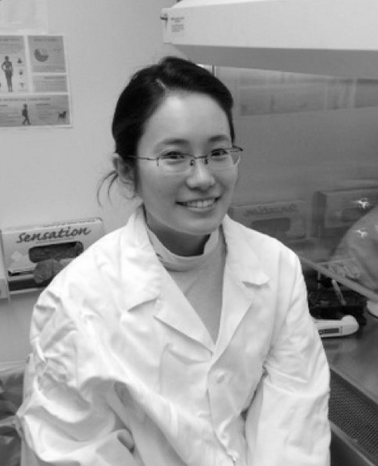
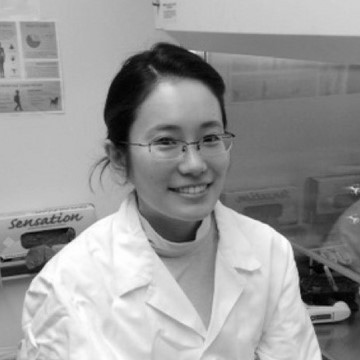
Smaller profile photo with circular crop, github linkedin links in about section

diff --git a/css/grayscale.min.css b/css/grayscale.min.css
@@ -2,4 +2,79 @@
  * Start Bootstrap - Grayscale v5.0.3 (https://startbootstrap.com/template-overviews/grayscale)
  * Copyright 2013-2018 Start Bootstrap
  * Licensed under MIT (https://github.com/BlackrockDigital/startbootstrap-grayscale/blob/master/LICENSE)
- */#mainNav{min-height:56px;background-color:#fff}#mainNav .navbar-toggler{font-size:80%;padding:.75rem;color:#64a19d;border:1px solid #64a19d}#mainNav .navbar-toggler:focus{outline:0}#mainNav .navbar-brand{color:#161616;font-weight:700;padding:.9rem 0}#mainNav .navbar-nav .nav-item:hover{color:fade(white,80%);outline:0;background-color:transparent}#mainNav .navbar-nav .nav-item:active,#mainNav .navbar-nav .nav-item:focus{outline:0;background-color:transparent}@media (min-width:992px){#mainNav{padding-top:0;padding-bottom:0;border-bottom:none;background-color:transparent;-webkit-transition:background-color .3s ease-in-out;transition:background-color .3s ease-in-out}#mainNav .navbar-brand{padding:.5rem 0;color:white}#mainNav .nav-link{-webkit-transition:none;transition:none;padding:2rem 1.5rem;color:white}#mainNav .nav-link:hover{color:rgba(255,255,255,.75)}#mainNav .nav-link:active{color:#fff}#mainNav.navbar-shrink{background-color:#fff}#mainNav.navbar-shrink .navbar-brand{color:#161616}#mainNav.navbar-shrink .nav-link{color:#161616;padding:1.5rem 1.5rem 1.25rem;border-bottom:.25rem solid transparent}#mainNav.navbar-shrink .nav-link:hover{color:#64a19d}#mainNav.navbar-shrink .nav-link:active{color:#467370}#mainNav.navbar-shrink .nav-link.active{color:#64a19d;outline:0;border-bottom:.25rem solid #64a19d}}.masthead{position:relative;width:100%;height:auto;min-height:35rem;padding:15rem 0;background:-webkit-gradient(linear,left top,left bottom,from(rgba(22,22,22,.1)),color-stop(75%,rgba(22,22,22,.5)),to(#161616)),url(../img/city.jpg);background:linear-gradient(to bottom,rgba(22,22,22,.1) 0,rgba(22,22,22,.5) 75%,#161616 100%),url(../img/city.jpg);background-position:center;background-repeat:no-repeat;background-attachment:scroll;background-size:cover}.masthead h1{font-family:'Varela Round';font-size:2.5rem;line-height:2.5rem;letter-spacing:.8rem;background:-webkit-linear-gradient(rgba(255,255,255,.9),rgba(255,255,255,0));-webkit-text-fill-color:transparent;-webkit-background-clip:text}.masthead h2{max-width:20rem;font-size:1rem}@media (min-width:768px){.masthead h1{font-size:4rem;line-height:4rem}}@media (min-width:992px){.masthead{height:100vh;padding:0}.masthead h1{font-size:6.5rem;line-height:6.5rem;letter-spacing:.8rem}.masthead h2{max-width:30rem;font-size:1.25rem}}.btn{-webkit-box-shadow:0 .1875rem .1875rem 0 rgba(0,0,0,.1)!important;box-shadow:0 .1875rem .1875rem 0 rgba(0,0,0,.1)!important;padding:1.25rem 2rem;font-family:'Varela Round';font-size:80%;text-transform:uppercase;letter-spacing:.15rem;border:0}.btn-primary{background-color:#64a19d}.btn-primary:hover{background-color:#4f837f}.btn-primary:focus{background-color:#4f837f;color:#fff}.btn-primary:active{background-color:#467370!important}.about-section{padding-top:10rem;background:-webkit-gradient(linear,left top,left bottom,from(#161616),color-stop(75%,rgba(22,22,22,.9)),to(rgba(22,22,22,.8)));background:linear-gradient(to bottom,#161616 0,rgba(22,22,22,.9) 75%,rgba(22,22,22,.8) 100%)}.about-section p{margin-bottom:5rem}.projects-section{padding:10rem 0}.projects-section .featured-text{padding:2rem}@media (min-width:992px){.projects-section .featured-text{padding:0 0 0 2rem;border-left:.5rem solid #64a19d}}.projects-section .project-text{padding:3rem;font-size:90%}@media (min-width:992px){.projects-section .project-text{padding:5rem}.projects-section .project-text hr{border-color:#64a19d;border-width:.25rem;width:30%}}.signup-section{padding:10rem 0;background:-webkit-gradient(linear,left top,left bottom,from(rgba(22,22,22,.1)),color-stop(75%,rgba(22,22,22,.5)),to(#161616)),url(../img/bg-signup.jpg);background:linear-gradient(to bottom,rgba(22,22,22,.1) 0,rgba(22,22,22,.5) 75%,#161616 100%),url(../img/bg-signup.jpg);background-position:center;background-repeat:no-repeat;background-attachment:scroll;background-size:cover}.signup-section .form-inline input{-webkit-box-shadow:0 .1875rem .1875rem 0 rgba(0,0,0,.1)!important;box-shadow:0 .1875rem .1875rem 0 rgba(0,0,0,.1)!important;padding:1.25rem 2rem;height:auto;font-family:'Varela Round';font-size:80%;text-transform:uppercase;letter-spacing:.15rem;border:0}.contact-section{padding:5rem 0 0}.contact-section .card{border:0;border-bottom:.25rem solid #64a19d}.contact-section .card h4{font-size:.8rem;font-family:'Varela Round';text-transform:uppercase;letter-spacing:.15rem}.contact-section .card hr{border-color:#64a19d;border-width:.25rem;width:3rem}.contact-section .social{margin-top:5rem}.contact-section .social a{text-align:center;height:3rem;width:3rem;background:rgba(255,255,255,.1);border-radius:100%;line-height:3rem;color:rgba(255,255,255,.3)}.contact-section .social a:hover{color:rgba(255,255,255,.5)}.contact-section .social a:active{color:#fff}body{font-family:Nunito;letter-spacing:.0625em}a{color:#64a19d}a:focus,a:hover{text-decoration:none;color:#3c6360}.bg-black{background-color:#161616!important}.bg-primary{background-color:#64a19d!important}.text-primary{color:#64a19d!important}footer{padding:5rem 0}
+ */
+ #mainNav{min-height:56px;background-color:#fff}
+ #mainNav .navbar-toggler{font-size:80%;padding:.75rem;color:#64a19d;border:1px solid #64a19d}
+ #mainNav .navbar-toggler:focus{outline:0}
+ #mainNav .navbar-brand{color:#161616;font-weight:700;padding:.9rem 0}
+ #mainNav .navbar-nav .nav-item:hover{color:fade(white,80%);outline:0;background-color:transparent}
+ #mainNav .navbar-nav .nav-item:active,#mainNav .navbar-nav .nav-item:focus{outline:0;background-color:transparent}
+ 
+ @media (min-width:992px){
+ #mainNav{padding-top:0;padding-bottom:0;border-bottom:none;background-color:transparent;-webkit-transition:background-color .3s ease-in-out;transition:background-color .3s ease-in-out}
+ #mainNav .navbar-brand{padding:.5rem 0;color:white}
+ #mainNav .nav-link{-webkit-transition:none;transition:none;padding:2rem 1.5rem;color:white}
+ #mainNav .nav-link:hover{color:rgba(255,255,255,.75)}
+ #mainNav .nav-link:active{color:#fff}
+ #mainNav.navbar-shrink{background-color:#fff}
+ #mainNav.navbar-shrink .navbar-brand{color:#161616}
+ #mainNav.navbar-shrink .nav-link{color:#161616;padding:1.5rem 1.5rem 1.25rem;border-bottom:.25rem solid transparent}
+ #mainNav.navbar-shrink .nav-link:hover{color:#64a19d}
+ #mainNav.navbar-shrink .nav-link:active{color:#467370}
+ #mainNav.navbar-shrink .nav-link.active{color:#64a19d;outline:0;border-bottom:.25rem solid #64a19d}}
+ 
+ .masthead{position:relative;width:100%;height:auto;min-height:35rem;padding:15rem 0;background:-webkit-gradient(linear,left top,left bottom,from(rgba(22,22,22,.1)),color-stop(75%,rgba(22,22,22,.5)),to(#161616)),url(../img/city.jpg);background:linear-gradient(to bottom,rgba(22,22,22,.1) 0,rgba(22,22,22,.5) 75%,#161616 100%),url(../img/city.jpg);background-position:center;background-repeat:no-repeat;background-attachment:scroll;background-size:cover}
+ .masthead h1{font-family:'Varela Round';font-size:2.5rem;line-height:2.5rem;letter-spacing:.8rem;background:-webkit-linear-gradient(rgba(255,255,255,.9),rgba(255,255,255,0));-webkit-text-fill-color:transparent;-webkit-background-clip:text}
+ .masthead h2{max-width:20rem;font-size:1rem}
+ 
+ @media (min-width:768px){
+ .masthead h1{font-size:4rem;line-height:4rem}}
+
+ @media (min-width:992px){
+ .masthead{height:100vh;padding:0}
+ .masthead h1{font-size:6.5rem;line-height:6.5rem;letter-spacing:.8rem}
+ .masthead h2{max-width:30rem;font-size:1.25rem}}
+ 
+ .btn{-webkit-box-shadow:0 .1875rem .1875rem 0 rgba(0,0,0,.1)!important;box-shadow:0 .1875rem .1875rem 0 rgba(0,0,0,.1)!important;padding:1.25rem 2rem;font-family:'Varela Round';font-size:80%;text-transform:uppercase;letter-spacing:.15rem;border:0}
+ .btn-primary{background-color:#64a19d}
+ .btn-primary:hover{background-color:#4f837f}
+ .btn-primary:focus{background-color:#4f837f;color:#fff}
+ .btn-primary:active{background-color:#467370!important}
+ 
+ .about-section{padding-top:10rem;background:-webkit-gradient(linear,left top,left bottom,from(#161616),color-stop(75%,rgba(22,22,22,.9)),to(rgba(22,22,22,.8)));background:linear-gradient(to bottom,#161616 0,rgba(22,22,22,.9) 75%,rgba(22,22,22,.8) 100%)}
+ .about-section p{margin-bottom:2rem}
+ .about-section .social{margin-top:1rem}
+ .about-section .social a{text-align:center;height:3rem;width:3rem;background:rgba(255,255,255,.1);border-radius:100%;line-height:3rem;color:rgba(255,255,255,.3)}
+ .about-section .social a:hover{color:rgba(255,255,255,.5)}
+ .about-section .social a:active{color:#fff}
+ .about-section img{border-radius:50%;margin-bottom:2rem;width:230px;height:230px}
+ 
+ .projects-section{padding:10rem 0}
+ .projects-section .featured-text{padding:2rem}
+
+ @media (min-width:992px){.projects-section .featured-text{padding:0 0 0 2rem;border-left:.5rem solid #64a19d}}
+     
+     .projects-section .project-text{padding:3rem;font-size:90%}
+     @media (min-width:992px){
+         .projects-section .project-text{padding:5rem}
+         .projects-section .project-text hr{border-color:#64a19d;border-width:.25rem;width:30%}}
+
+
+.signup-section{padding:10rem 0;background:-webkit-gradient(linear,left top,left bottom,from(rgba(22,22,22,.1)),color-stop(75%,rgba(22,22,22,.5)),to(#161616)),url(../img/bg-signup.jpg);background:linear-gradient(to bottom,rgba(22,22,22,.1) 0,rgba(22,22,22,.5) 75%,#161616 100%),url(../img/bg-signup.jpg);background-position:center;background-repeat:no-repeat;background-attachment:scroll;background-size:cover}
+ .signup-section .form-inline input{-webkit-box-shadow:0 .1875rem .1875rem 0 rgba(0,0,0,.1)!important;box-shadow:0 .1875rem .1875rem 0 rgba(0,0,0,.1)!important;padding:1.25rem 2rem;height:auto;font-family:'Varela Round';font-size:80%;text-transform:uppercase;letter-spacing:.15rem;border:0}
+ 
+ .contact-section{padding:5rem 0 0}
+ .contact-section .card{border:0;border-bottom:.25rem solid #64a19d}
+ .contact-section .card h4{font-size:.8rem;font-family:'Varela Round';text-transform:uppercase;letter-spacing:.15rem}
+ .contact-section .card hr{border-color:#64a19d;border-width:.25rem;width:3rem}
+ .contact-section .social{margin-top:5rem}
+ .contact-section .social a{text-align:center;height:3rem;width:3rem;background:rgba(255,255,255,.1);border-radius:100%;line-height:3rem;color:rgba(255,255,255,.3)}
+ .contact-section .social a:hover{color:rgba(255,255,255,.5)}
+ .contact-section .social a:active{color:#fff}
+ body{font-family:Nunito;letter-spacing:.0625em}
+ a{color:#64a19d}
+ a:focus,a:hover{text-decoration:none;color:#3c6360}
+ .bg-black{background-color:#161616!important}
+ .bg-primary{background-color:#64a19d!important}
+ .text-primary{color:#64a19d!important}
+ footer{padding:5rem 0}

diff --git a/index.html b/index.html
@@ -7,7 +7,6 @@
   <meta name="viewport" content="width=device-width, initial-scale=1, shrink-to-fit=no">
   <meta name="description" content="">
   <meta name="author" content="">
-
   <title>Ize Imai</title>
 
   <!-- Bootstrap core CSS -->
@@ -69,10 +68,24 @@
         <div class="col-lg-8 mx-auto">
           <h2 class="text-white mb-4">Hello! My name is Ize.</h2>
           <p class="text-white-50">Lab Manager and Full Stack Web Developer specialized in project management and data
-            science using R and Python scripts.</p>
+            science using R and Python scripts.
+            <br>
+            <br>
+            <div class="social d-flex justify-content-center">
+              <a href="https://www.linkedin.com/in/ize-imai-45757b29/" class="mx-2">
+                <i class="fab fa-linkedin"></i>
+              </a>
+              <a href="https://github.com/izeimai" class="mx-2">
+                <i class="fab fa-github"></i>
+              </a>
+              <a href="https://stackoverflow.com/users/10443635/izeimai" class="mx-2">
+                <i class="fab fa-stack-overflow"></i>
+              </a>
+            </div>
+          </p>
         </div>
       </div>
-      <img src="img/izeimai.jpg" class="img-fluid" alt="">
+      <img src="img/izeimai.jpg" class="img-fluid" id="profilePhoto" alt="profilephoto">
     </div>
   </section>
 
@@ -80,7 +93,7 @@
   <section id="projects" class="projects-section bg-light">
     <div class="container">
 
-      <!-- Featured Project Row -->
+      <!-- Featured Project Row: Study Buddy -->
       <div class="row align-items-center no-gutters mb-4 mb-lg-5">
         <div class="col-xl-8 col-lg-7">
           <a href="https://izeimai.github.io/Project-One/">
@@ -95,50 +108,138 @@
             <p class="text-black-50 mb-0">Web app to help students streamline the process of organizing study
               meetups!</p>
             <a href="https://izeimai.github.io/Project-One/">
-              <p class="text-black-50 mt-1 mb-0">Link to Web App</p>
+              <p class="mt-3 mb-0 ml-3">Link to Web App</p>
             </a>
             <a href="https://github.com/izeimai/Project-One">
-              <p class="text-black-50 mt-1 mb-0">Link to GitHub Repository</p>
+              <p class="mt-1 mb-0 ml-3">Link to GitHub Repository</p>
             </a>
           </div>
         </div>
       </div>
 
-      <!-- Project One Row -->
+      <!-- Project 1: Trivia Game -->
       <div class="row justify-content-center no-gutters mb-5 mb-lg-0">
         <div class="col-lg-6">
-          <img class="img-fluid" src="img/triviagame.JPG" alt="">
+          <img class="img-fluid" src="img/triviagame.JPG" alt="triviagame">
         </div>
         <div class="col-lg-6">
           <div class="bg-black text-center h-100 project">
             <div class="d-flex h-100">
               <div class="project-text w-100 my-auto text-center text-lg-left">
                 <h4 class="text-white">Trivia game</h4>
-                <p class="mb-0 text-white-50">Interactive multiple choice web game with countdown timers and counter</p>
+                <p class="mb-0 text-white-50">Interactive multiple choice web game with countdown timers and counters</p>
                 <hr class="d-none d-lg-block mb-0 ml-0">
+                <a href="https://izeimai.github.io/TriviaGame/">
+                  <p class="mt-3 mb-0">Link to Web App</p>
+                </a>
+                <a href="https://github.com/izeimai/TriviaGame">
+                  <p class="mt-1 mb-0">Link to GitHub Repository</p>
+                </a>
               </div>
             </div>
           </div>
         </div>
       </div>
 
-      <!-- Project Two Row -->
+
+      <!-- Project 2: Gif Search -->
       <div class="row justify-content-center no-gutters">
         <div class="col-lg-6">
-          <img class="img-fluid" src="img/giftastic.JPG" alt="">
+          <img class="img-fluid" src="img/giftastic.JPG" alt="giftastic">
         </div>
         <div class="col-lg-6 order-lg-first">
           <div class="bg-black text-center h-100 project">
             <div class="d-flex h-100">
               <div class="project-text w-100 my-auto text-center text-lg-right">
                 <h4 class="text-white">GifTastic Search</h4>
-                <p class="mb-0 text-white-50">Uses AJAX calls to Giphy API to search for food themed gifs</p>
+                <p class="mb-0 text-white-50">Uses AJAX calls to Giphy API to search for food-themed gifs</p>
                 <hr class="d-none d-lg-block mb-0 mr-0">
+                <a href="https://izeimai.github.io/GifTastic/">
+                  <p class="mt-3 mb-0">Link to Web App</p>
+                </a>
+                <a href="https://github.com/izeimai/GifTastic">
+                  <p class="mt-1 mb-0">Link to GitHub Repository</p>
+                </a>
               </div>
             </div>
           </div>
         </div>
       </div>
+
+
+      <!-- Project 3: Train Scheduler -->
+      <div class="row justify-content-center no-gutters mb-5 mb-lg-0">
+        <div class="col-lg-6">
+          <img class="img-fluid" src="img/triviagame.JPG" alt="triviagame">
+        </div>
+        <div class="col-lg-6">
+          <div class="bg-black text-center h-100 project">
+            <div class="d-flex h-100">
+              <div class="project-text w-100 my-auto text-center text-lg-left">
+                <h4 class="text-white">Trivia game</h4>
+                <p class="mb-0 text-white-50">Interactive multiple choice web game with countdown timers and counters</p>
+                <hr class="d-none d-lg-block mb-0 ml-0">
+                <a href="https://izeimai.github.io/TriviaGame/">
+                  <p class="mt-3 mb-0">Link to Web App</p>
+                </a>
+                <a href="https://github.com/izeimai/TriviaGame">
+                  <p class="mt-1 mb-0">Link to GitHub Repository</p>
+                </a>
+              </div>
+            </div>
+          </div>
+        </div>
+      </div>
+
+
+      <!-- Project 4: Word Guess Game -->
+      <div class="row justify-content-center no-gutters">
+        <div class="col-lg-6">
+          <img class="img-fluid" src="img/giftastic.JPG" alt="giftastic">
+        </div>
+        <div class="col-lg-6 order-lg-first">
+          <div class="bg-black text-center h-100 project">
+            <div class="d-flex h-100">
+              <div class="project-text w-100 my-auto text-center text-lg-right">
+                <h4 class="text-white">GifTastic Search</h4>
+                <p class="mb-0 text-white-50">Uses AJAX calls to Giphy API to search for food-themed gifs</p>
+                <hr class="d-none d-lg-block mb-0 mr-0">
+                <a href="https://izeimai.github.io/GifTastic/">
+                  <p class="mt-3 mb-0">Link to Web App</p>
+                </a>
+                <a href="https://github.com/izeimai/GifTastic">
+                  <p class="mt-1 mb-0">Link to GitHub Repository</p>
+                </a>
+              </div>
+            </div>
+          </div>
+        </div>
+      </div>
+
+      <!-- Project 5: Crystals Collector -->
+      <div class="row justify-content-center no-gutters mb-5 mb-lg-0">
+        <div class="col-lg-6">
+          <img class="img-fluid" src="img/triviagame.JPG" alt="triviagame">
+        </div>
+        <div class="col-lg-6">
+          <div class="bg-black text-center h-100 project">
+            <div class="d-flex h-100">
+              <div class="project-text w-100 my-auto text-center text-lg-left">
+                <h4 class="text-white">Trivia game</h4>
+                <p class="mb-0 text-white-50">Interactive multiple choice web game with countdown timers and counters</p>
+                <hr class="d-none d-lg-block mb-0 ml-0">
+                <a href="https://izeimai.github.io/TriviaGame/">
+                  <p class="mt-3 mb-0">Link to Web App</p>
+                </a>
+                <a href="https://github.com/izeimai/TriviaGame">
+                  <p class="mt-1 mb-0">Link to GitHub Repository</p>
+                </a>
+              </div>
+            </div>
+          </div>
+        </div>
+      </div>
+
 
     </div>
   </section>
@@ -150,7 +251,7 @@
         <div class="col-md-10 col-lg-8 mx-auto text-center">
 
           <i class="far fa-paper-plane fa-2x mb-2 text-white"></i>
-          <h2 class="text-white mb-5">Enter your email for more information!</h2>
+          <h2 class="text-white mb-5">Enter your email to connect with me!</h2>
 
           <form class="form-inline d-flex">
             <input type="email" class="form-control flex-fill mr-0 mr-sm-2 mb-3 mb-sm-0" id="inputEmail" placeholder="Enter email address...">
